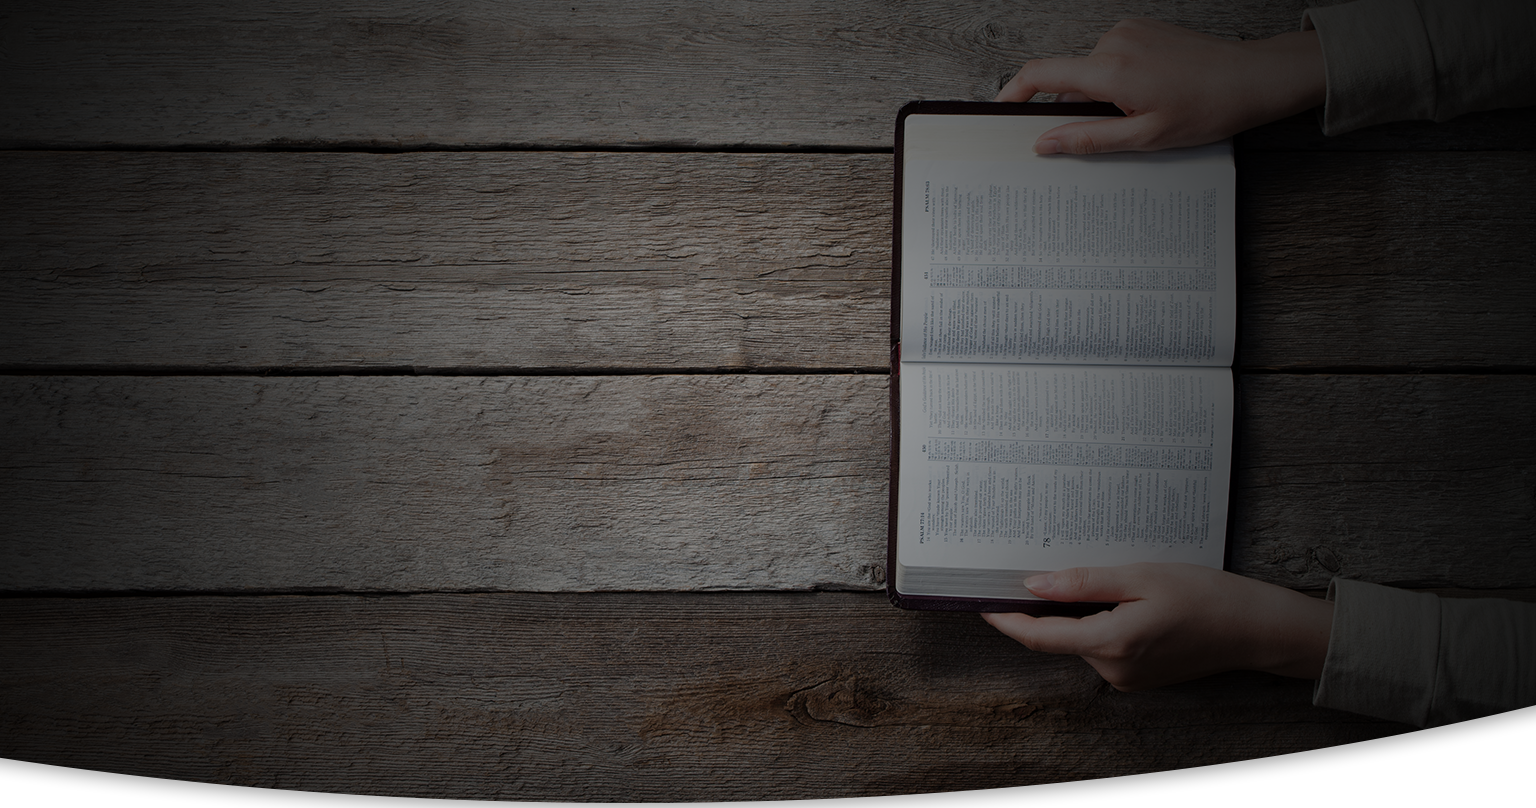
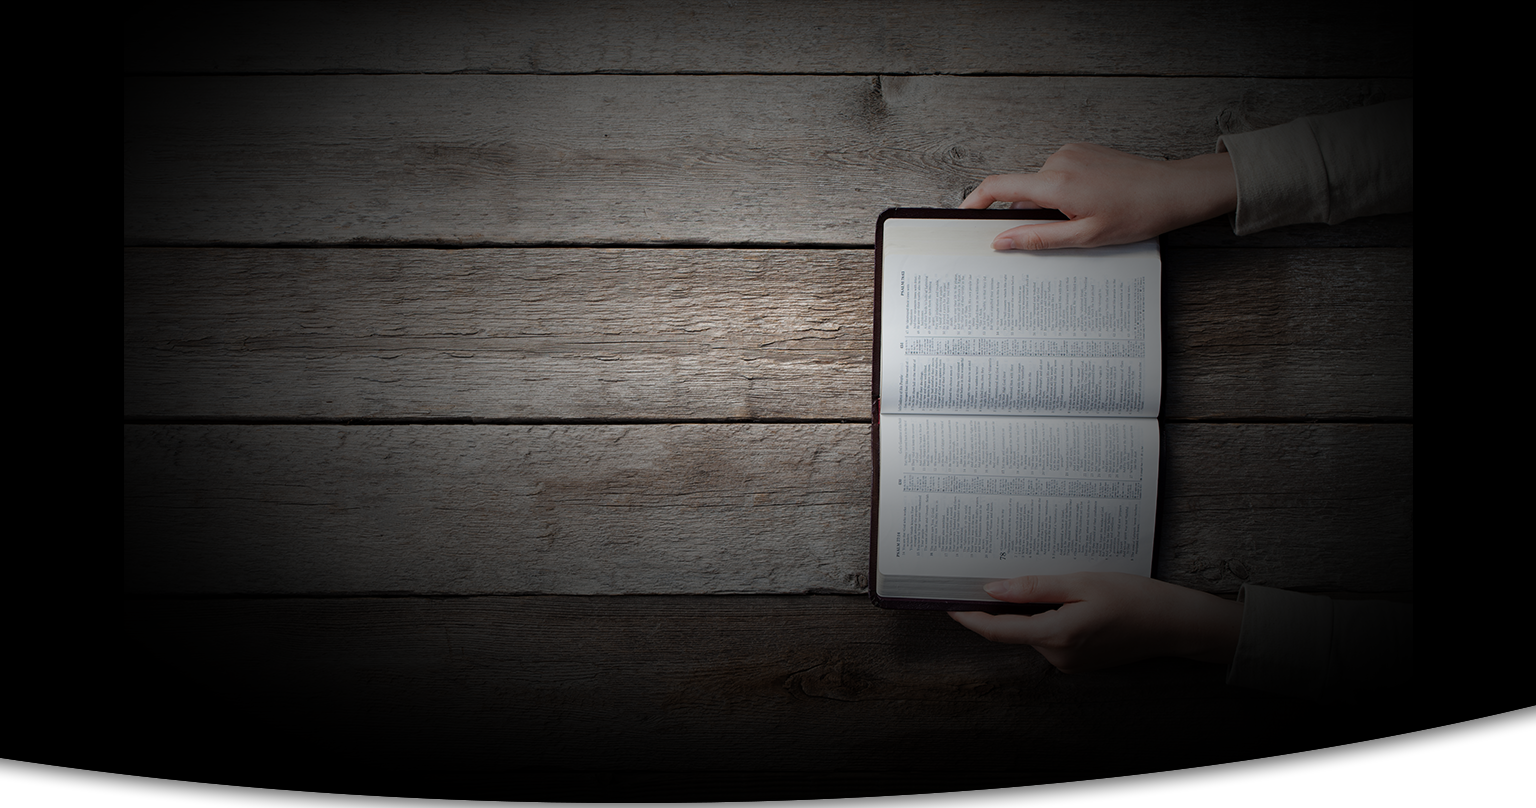
Replace intro images (downsizing)

diff --git a/styles/style.css b/styles/style.css
@@ -273,26 +273,26 @@ nav {
 .intro {
   height: 880px;
   margin-bottom: 30px;
-  background: url(/resources/images/landing/intro_image01.png) no-repeat center center;
+  background: url(/resources/images/landing/intro_image01.jpg) no-repeat center center;
   background-size: cover; 
 }
 
 .intro .intro-slider {
   color: white;
   position: absolute;
-  top: 130px;
+  top: 150px;
 }
 
 .intro .slider-heading p, .slider-heading em {
   font-family: var(--intro-title);
-  letter-spacing: -1px;
+  letter-spacing: -2px;
   font-size: 55px;
   margin-bottom: 40px;
 }
 
 .intro .slider-heading b {
   font-family: var(--intro-title);
-  letter-spacing: -1px;
+  letter-spacing: -2px;
   font-weight: normal;    
   font-size: 45px;
   color: var(--foam-latte);
@@ -337,7 +337,7 @@ nav {
 .intro-second {
   height: 880px;
   margin-bottom: 30px;
-  background: url(/resources/images/landing/intro_image02.png) no-repeat center center;
+  background: url(/resources/images/landing/intro_image02.jpg) no-repeat center center;
   background-size: cover;  
 }
 
@@ -350,14 +350,14 @@ nav {
 
 .intro-second .slider-heading p, .intro-second .slider-heading em {
   font-family: var(--intro-title);
-  letter-spacing: -1px;
+  letter-spacing: -2px;
   font-size: 55px;
   margin-bottom: 40px;
 }
 
 .intro-second .slider-heading b {
   font-family: var(--intro-title);
-  letter-spacing: -1px;
+  letter-spacing: -2px;
   font-weight: normal;    
   font-size: 45px;
   color: var(--foam-latte);
@@ -402,7 +402,7 @@ nav {
 .intro-third {
   height: 880px;
   margin-bottom: 30px;
-  background: url(/resources/images/landing/intro_image03.png) no-repeat center center;
+  background: url(/resources/images/landing/intro_image03.jpg) no-repeat center center;
   background-size: cover;  
 }
 
@@ -415,7 +415,7 @@ nav {
 
 .intro-third .slider-heading p, .intro-third .slider-heading em {
   font-family: var(--intro-title);
-  letter-spacing: -1px;
+  letter-spacing: -2px;
   font-size: 55px;
   margin-bottom: 40px;
 }
@@ -459,7 +459,7 @@ nav {
 .intro-fourth {
   height: 880px;
   margin-bottom: 30px;
-  background: url(/resources/images/landing/intro_image04.png) no-repeat center center;
+  background: url(/resources/images/landing/intro_image04.jpg) no-repeat center center;
   background-size: cover;  
 }
 
@@ -472,14 +472,14 @@ nav {
 
 .intro-fourth .slider-heading p, .intro-fourth .slider-heading em {
   font-family: var(--intro-title);
-  letter-spacing: -1px;
+  letter-spacing: -2px;
   font-size: 55px;
   margin-bottom: 40px;
 }
 
 .intro-fourth .slider-heading b {
   font-family: var(--intro-title);
-  letter-spacing: -1px;
+  letter-spacing: -2px;
   font-weight: normal;    
   font-size: 45px;
   color: var(--foam-latte);
@@ -527,7 +527,7 @@ nav {
 .intro-fifth {
   height: 880px;
   margin-bottom: 30px;
-  background: url(/resources/images/landing/intro_image05.png) no-repeat center center;
+  background: url(/resources/images/landing/intro_image05.jpg) no-repeat center center;
   background-size: cover; 
 }
 
@@ -539,14 +539,14 @@ nav {
 
 .intro-fifth .slider-heading p, .intro-fifth .slider-heading em {
   font-family: var(--intro-title);
-  letter-spacing: -1px;
+  letter-spacing: -2px;
   font-size: 55px;
   margin-bottom: 40px;
 }
 
 .intro-fifth .slider-heading b {
   font-family: var(--intro-title);
-  letter-spacing: -1px;
+  letter-spacing: -2px;
   font-weight: normal;    
   font-size: 45px;
   color: var(--foam-latte);
@@ -595,7 +595,7 @@ nav {
 .intro-sixth {
   height: 880px;
   margin-bottom: 30px;
-  background: url(/resources/images/landing/intro_image06.png) no-repeat center center;
+  background: url(/resources/images/landing/intro_image06.jpg) no-repeat center center;
   background-size: cover; 
 }
 
@@ -607,14 +607,14 @@ nav {
 
 .intro-sixth .slider-heading p, .intro-sixth .slider-heading em {
   font-family: var(--intro-title);
-  letter-spacing: -1px;
+  letter-spacing: -2px;
   font-size: 55px;
   margin-bottom: 40px;
 }
 
 .intro-sixth .slider-heading b {
   font-family: var(--intro-title);
-  letter-spacing: -1px;
+  letter-spacing: -2px;
   font-weight: normal;    
   font-size: 45px;
   color: var(--foam-latte);
@@ -663,7 +663,7 @@ nav {
 .intro-seventh {
   height: 880px;
   margin-bottom: 30px;
-  background: url(/resources/images/landing/intro_image07.png) no-repeat center center;
+  background: url(/resources/images/landing/intro_image07.jpg) no-repeat center center;
   background-size: cover; 
 }
 
@@ -676,7 +676,7 @@ nav {
 
 .intro-seventh .slider-heading p, .intro-seventh .slider-heading em {
   font-family: var(--intro-title);
-  letter-spacing: -1px;
+  letter-spacing: -2px;
   font-size: 55px;
   margin-bottom: 40px;
 }
@@ -803,6 +803,7 @@ section.floating {
 .sermons {
   padding-top: 100px;
 }
+
 .sermon-summary .heading h1 {
   font-weight: 600;
   position: relative;

diff --git a/styles/variables.css b/styles/variables.css
@@ -36,10 +36,10 @@
   /* Font Family */
   --primary-kr: 'Noto Sans KR', sans-serif;
   --primary-en: 'Roboto', sans-serif;
-  --secondary-kr: 'NEXON Lv1 Gothic', sans-serif;
+  --secondary-kr: 'NEXON Lv1 Gothic OTF', sans-serif;
   --secondary-en: 'Poppins', sans-serif;
   --tertiary-kr: 'SCoreDream', sans-serif;
-  --intro-title: 'SeoulHangangC', serif;
+  --intro-title: 'SeoulHangangM', serif;
   --decor-font: 'Ms Madi', serif;
   --background-font:'Bungee Inline', sans-serif; 
 

diff --git a/index.html b/index.html
@@ -32,7 +32,7 @@
           <ul>
             <li><a href="#none">교회소개</a>
               <ul>
-                <li><a href="#none">사역원리</a></li>
+                <li><a href="#none">사역 원리</a></li>
                 <li><a href="#none">새가족 안내</a></li>
                 <li><a href="#none">예배 안내</a></li>
                 <li><a href="#none">섬기는 분들</a></li>

diff --git a/styles/responsive.css b/styles/responsive.css
@@ -236,6 +236,16 @@
     font-size: 24px;
   }
 
+  /* section_common */
+
+  section.sermons {
+    padding-top: 0;
+  }
+
+  section.news, section.groupcare {
+    padding-top: 50px;
+  }
+
   /* Section_Sermon */
   .sermon-summary .heading h1:after {
     opacity: 0;
